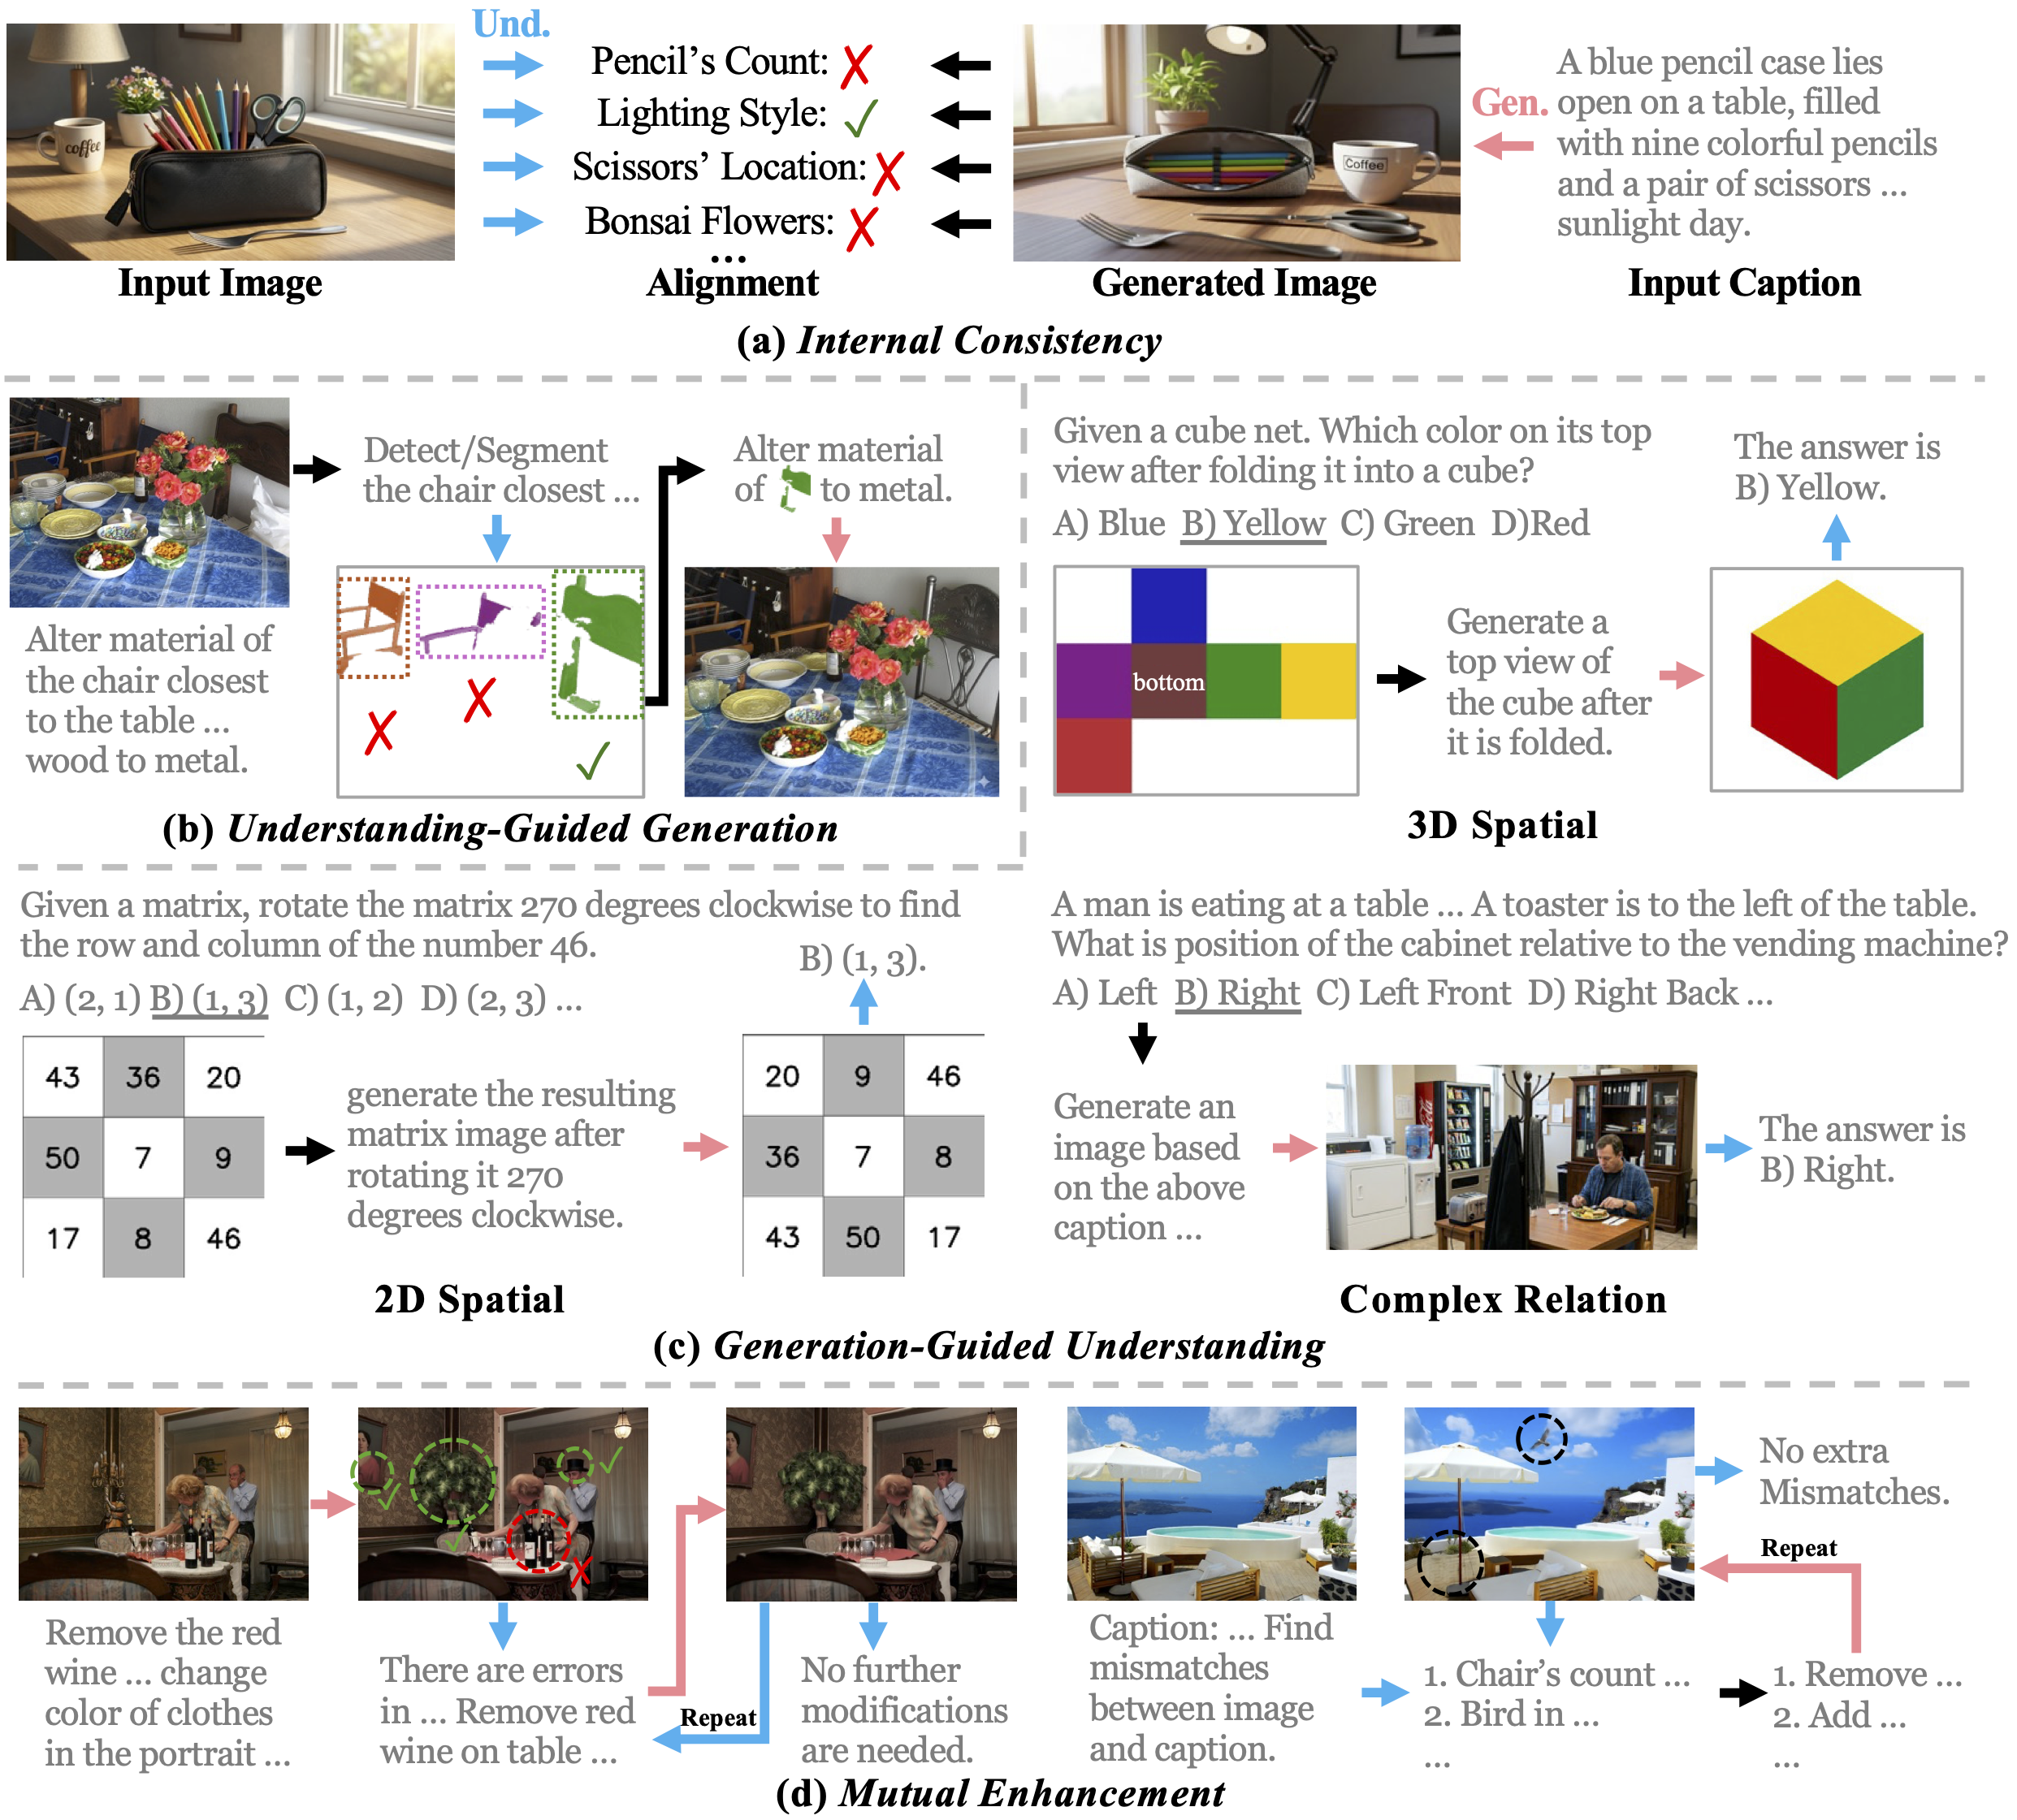
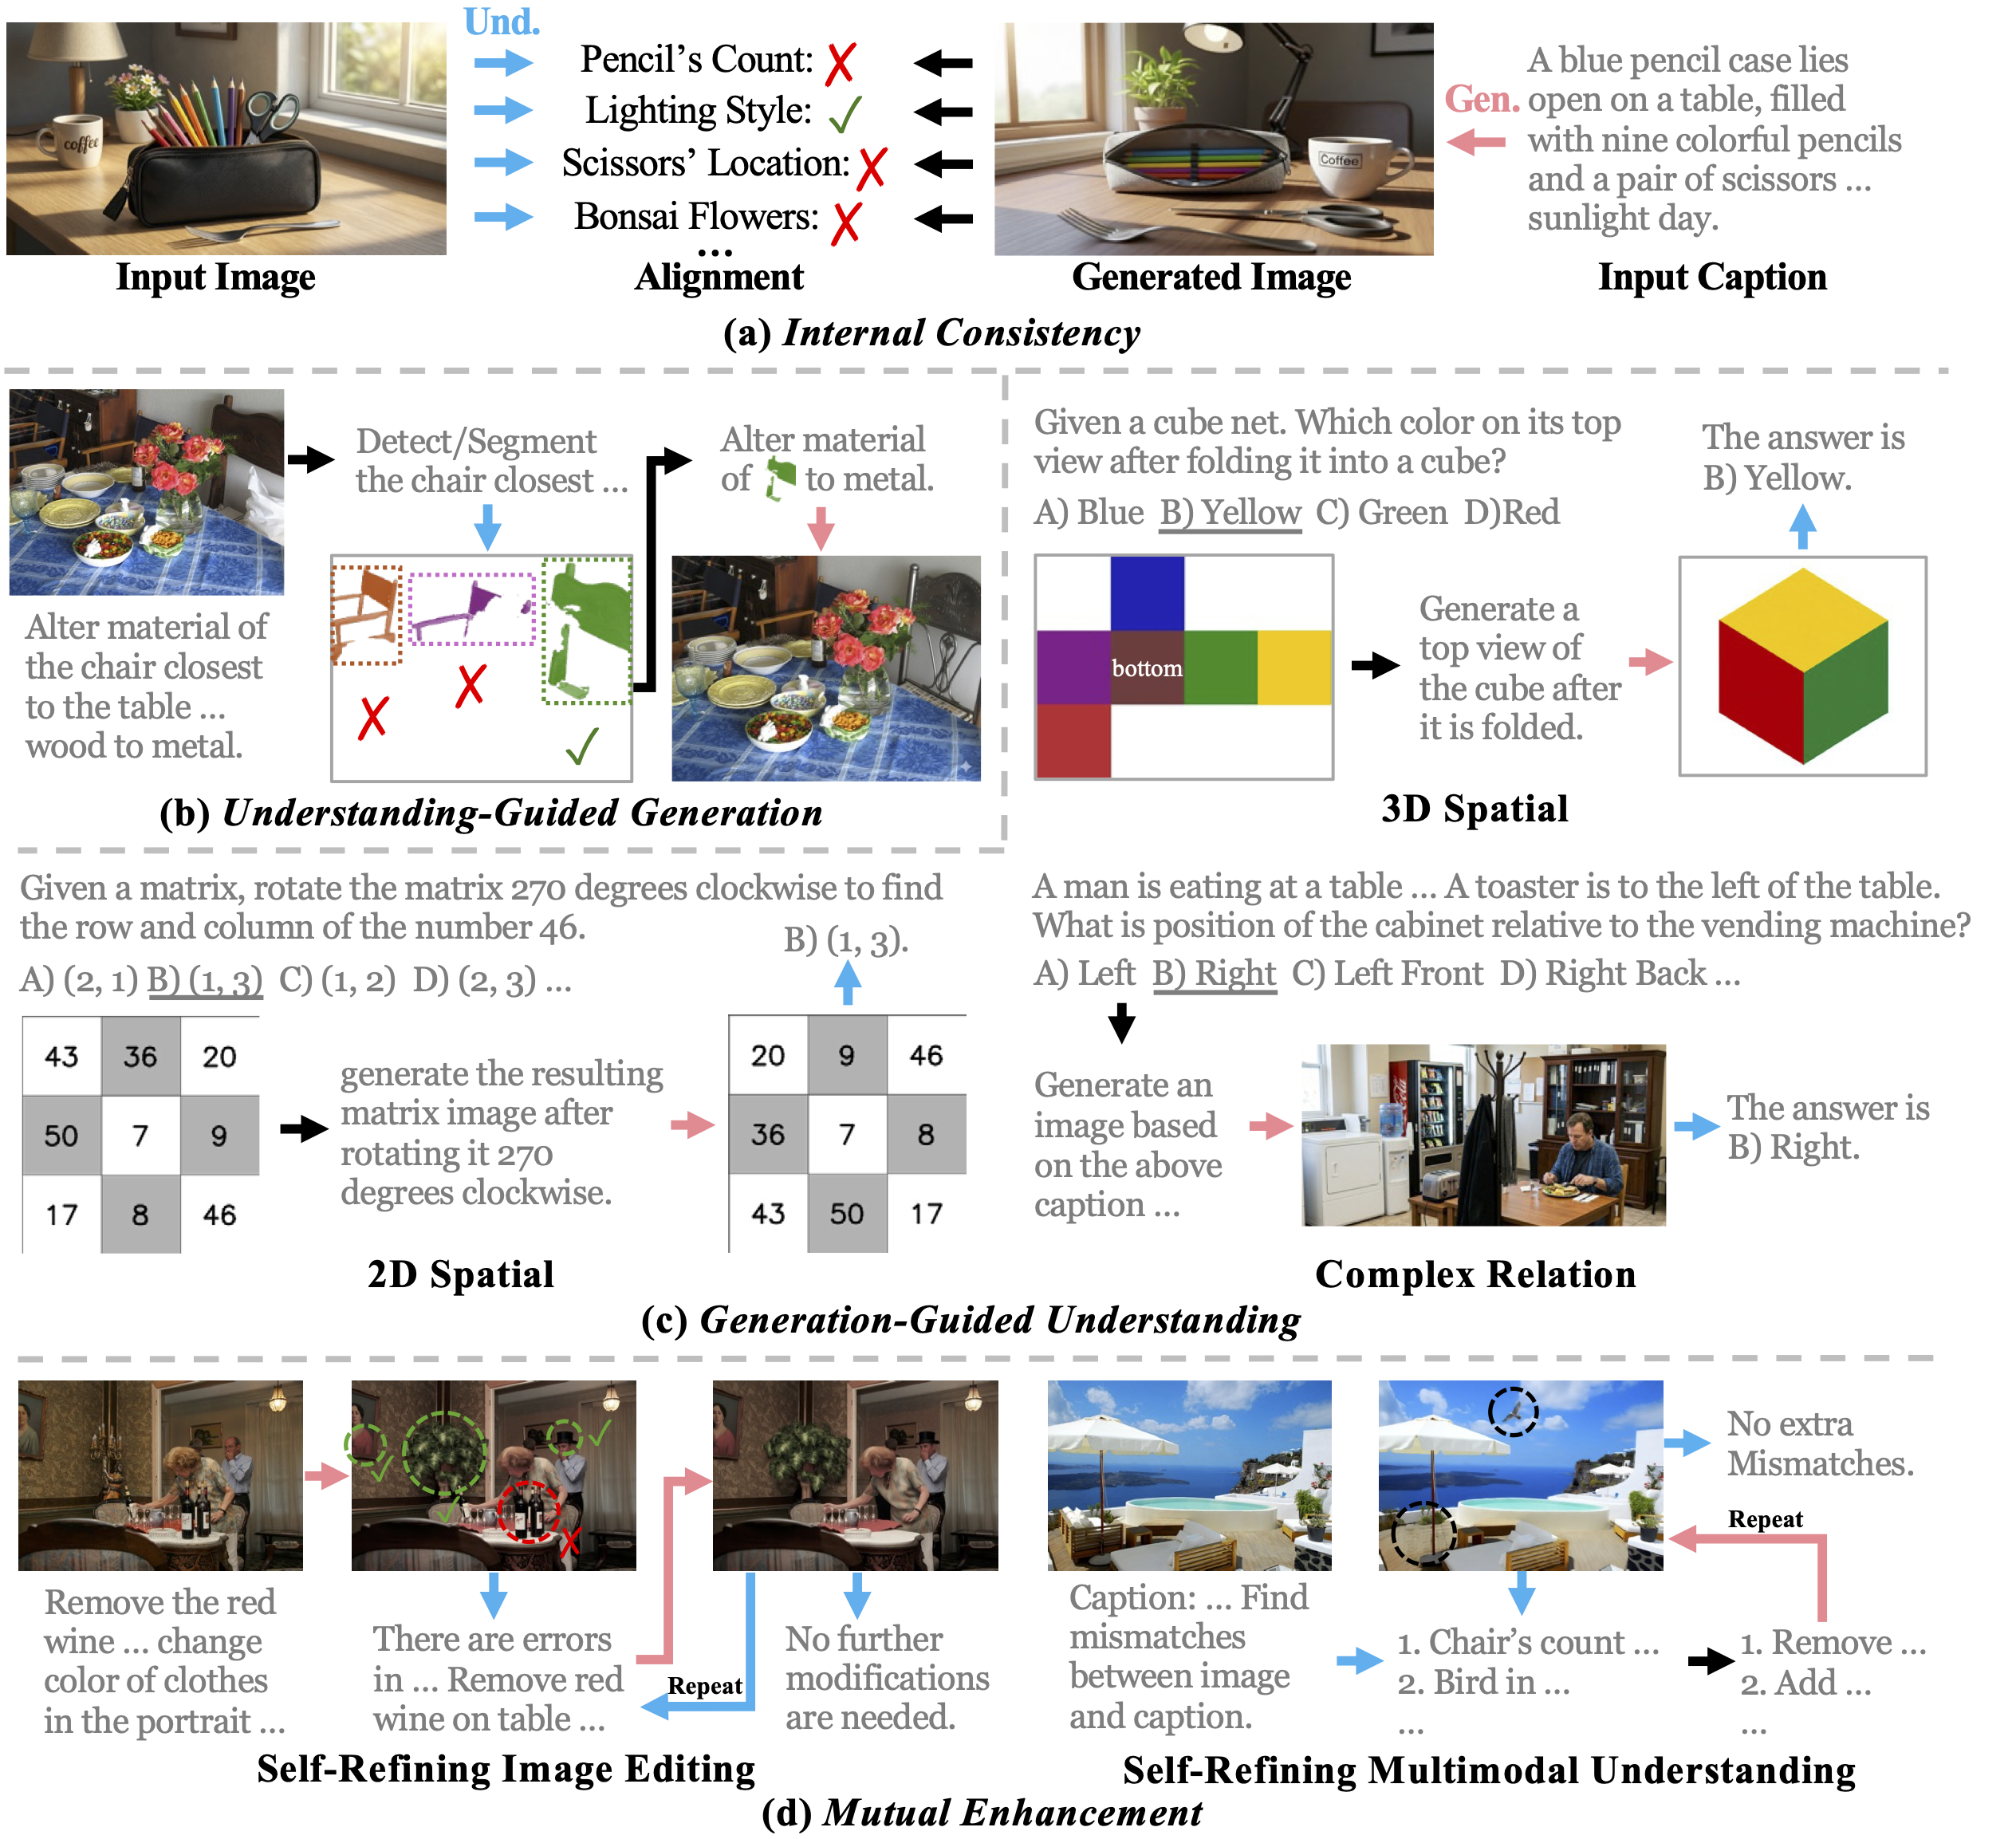
update

diff --git a/README.md b/README.md
@@ -29,28 +29,66 @@ We introduce **Unison**, a comprehensive benchmark comprising 2,169 high-quality
 
 ### Open-Source Unified Multimodal Models
 
-| Model | Params | IC Uni. | UGG Uni. | GGU Uni. | ME Uni. | Overall |
-|---|---:|---:|---:|---:|---:|---:|
-| [Show-o](https://github.com/showlab/Show-o) | 1.3B | 58.5 | - | - | - | - |
-| [Janus-Pro](https://github.com/deepseek-ai/Janus) | 1.5B | 45.0 | - | - | - | - |
-| [Show-o2](https://github.com/showlab/Show-o/tree/main/show-o2) | 1.5B | 65.8 | - | - | - | - |
-| [D-DiT](https://github.com/zijieli-Jlee/Dual-Diffusion) | 2B | 58.1 | - | - | - | - |
-| [ILLUME+](https://github.com/illume-unified-mllm/ILLUME_plus) | 3B | 10.5 | 9.0 | 15.1 | 3.2 | 9.4 |
-| [Janus-Pro](https://github.com/deepseek-ai/Janus) | 7B | 69.8 | - | - | - | - |
-| [Show-o2](https://github.com/showlab/Show-o/tree/main/show-o2) | 7B | 72.5 | - | - | - | - |
-| [ILLUME+](https://github.com/illume-unified-mllm/ILLUME_plus) | 7B | 16.7 | 11.4 | 13.9 | 4.8 | 11.7 |
-| [OmniGen2](https://github.com/VectorSpaceLab/OmniGen2) | 7B | <u>74.5</u> | <u>52.0</u> | <u>30.9</u> | **47.7** | <u>51.3</u> |
-| [TokenFlow](https://github.com/ByteVisionLab/TokenFlow) | 14B | 44.5 | - | - | - | - |
-| [BAGEL](https://github.com/ByteDance-Seed/Bagel) | 14B | **80.3** | **67.9** | **32.0** | <u>32.5</u> | **53.2** |
-| [SEED-X](https://github.com/AILab-CVC/SEED-X) | 17B | 34.2 | 16.1 | 20.8 | 8.5 | 19.9 |
-| [UniWorld](https://github.com/PKU-YuanGroup/UniWorld) | 19B | 65.1 | 44.9 | 26.9 | 31.3 | 42.1 |
+<table>
+  <thead>
+    <tr>
+      <th rowspan="2">Model</th>
+      <th rowspan="2">Params</th>
+      <th colspan="3">Internal Consistency</th>
+      <th colspan="3">Und.-Guided Gen.</th>
+      <th colspan="3">Gen-Guided Und.</th>
+      <th colspan="3">Mutual Enhancement</th>
+      <th rowspan="2">Overall</th>
+    </tr>
+    <tr>
+      <th>Und.</th><th>Gen.</th><th>Uni.</th>
+      <th>Und.</th><th>Gen.</th><th>Uni.</th>
+      <th>Und.</th><th>Gen.</th><th>Uni.</th>
+      <th>Und.</th><th>Gen.</th><th>Uni.</th>
+    </tr>
+  </thead>
+  <tbody>
+    <tr><td><a href="https://github.com/showlab/Show-o">Show-o</a></td><td align="right">1.3B</td><td align="right">88.3</td><td align="right">64.7</td><td align="right">58.5</td><td align="right">8.90</td><td align="right">-</td><td align="right">-</td><td align="right">12.0</td><td align="right">-</td><td align="right">-</td><td align="right">-</td><td align="right">-</td><td align="right">-</td><td align="right">-</td></tr>
+    <tr><td><a href="https://github.com/deepseek-ai/Janus">Janus-Pro</a></td><td align="right">1.5B</td><td align="right">94.4</td><td align="right">47.1</td><td align="right">45.0</td><td align="right">0.3</td><td align="right">-</td><td align="right">-</td><td align="right">19.2</td><td align="right">-</td><td align="right">-</td><td align="right">-</td><td align="right">-</td><td align="right">-</td><td align="right">-</td></tr>
+    <tr><td><a href="https://github.com/showlab/Show-o/tree/main/show-o2">Show-o2</a></td><td align="right">1.5B</td><td align="right"><u>96.0</u></td><td align="right">67.9</td><td align="right">65.8</td><td align="right">26.7</td><td align="right">-</td><td align="right">-</td><td align="right">9.4</td><td align="right">-</td><td align="right">-</td><td align="right">-</td><td align="right">-</td><td align="right">-</td><td align="right">-</td></tr>
+    <tr><td><a href="https://github.com/zijieli-Jlee/Dual-Diffusion">D-DiT</a></td><td align="right">2B</td><td align="right">86.5</td><td align="right">65.0</td><td align="right">58.1</td><td align="right">0.2</td><td align="right">-</td><td align="right">-</td><td align="right">6.8</td><td align="right">-</td><td align="right">-</td><td align="right">-</td><td align="right">-</td><td align="right">-</td><td align="right">-</td></tr>
+    <tr><td><a href="https://github.com/illume-unified-mllm/ILLUME_plus">ILLUME+</a></td><td align="right">3B</td><td align="right">43.4</td><td align="right">19.9</td><td align="right">10.5</td><td align="right">10.3</td><td align="right">7.7</td><td align="right">9.0</td><td align="right">11.3</td><td align="right">30.1</td><td align="right">15.1</td><td align="right">1.0</td><td align="right">5.5</td><td align="right">3.2</td><td align="right">9.4</td></tr>
+    <tr><td><a href="https://github.com/deepseek-ai/Janus">Janus-Pro</a></td><td align="right">7B</td><td align="right">95.7</td><td align="right">71.7</td><td align="right">69.8</td><td align="right">3.2</td><td align="right">-</td><td align="right">-</td><td align="right">15.1</td><td align="right">-</td><td align="right">-</td><td align="right">-</td><td align="right">-</td><td align="right">-</td><td align="right">-</td></tr>
+    <tr><td><a href="https://github.com/showlab/Show-o/tree/main/show-o2">Show-o2</a></td><td align="right">7B</td><td align="right"><strong>97.2</strong></td><td align="right">73.8</td><td align="right">72.5</td><td align="right">9.9</td><td align="right">-</td><td align="right">-</td><td align="right">9.2</td><td align="right">-</td><td align="right">-</td><td align="right">-</td><td align="right">-</td><td align="right">-</td><td align="right">-</td></tr>
+    <tr><td><a href="https://github.com/illume-unified-mllm/ILLUME_plus">ILLUME+</a></td><td align="right">7B</td><td align="right">80.2</td><td align="right">20.4</td><td align="right">16.7</td><td align="right">12.4</td><td align="right">10.4</td><td align="right">11.4</td><td align="right">11.3</td><td align="right">27.7</td><td align="right">13.9</td><td align="right">2.7</td><td align="right">6.8</td><td align="right">4.8</td><td align="right">11.7</td></tr>
+    <tr><td><a href="https://github.com/VectorSpaceLab/OmniGen2">OmniGen2</a></td><td align="right">7B</td><td align="right">92.3</td><td align="right"><u>79.0</u></td><td align="right"><u>74.5</u></td><td align="right"><u>61.3</u></td><td align="right"><u>42.6</u></td><td align="right"><u>52.0</u></td><td align="right">19.7</td><td align="right"><strong>41.9</strong></td><td align="right"><u>30.9</u></td><td align="right"><u>45.0</u></td><td align="right"><u>50.3</u></td><td align="right"><strong>47.7</strong></td><td align="right"><u>51.3</u></td></tr>
+    <tr><td><a href="https://github.com/ByteVisionLab/TokenFlow">TokenFlow</a></td><td align="right">14B</td><td align="right">93.0</td><td align="right">47.1</td><td align="right">44.5</td><td align="right">20.1</td><td align="right">-</td><td align="right">-</td><td align="right">17.0</td><td align="right">-</td><td align="right">-</td><td align="right">-</td><td align="right">-</td><td align="right">-</td><td align="right">-</td></tr>
+    <tr><td><a href="https://github.com/ByteDance-Seed/Bagel">BAGEL</a></td><td align="right">14B</td><td align="right"><u>96.0</u></td><td align="right"><strong>82.5</strong></td><td align="right"><strong>80.3</strong></td><td align="right">57.6</td><td align="right"><strong>78.1</strong></td><td align="right"><strong>67.9</strong></td><td align="right"><strong>28.2</strong></td><td align="right"><u>41.6</u></td><td align="right"><strong>32.0</strong></td><td align="right">7.2</td><td align="right"><strong>57.7</strong></td><td align="right"><u>32.5</u></td><td align="right"><strong>53.2</strong></td></tr>
+    <tr><td><a href="https://github.com/AILab-CVC/SEED-X">SEED-X</a></td><td align="right">17B</td><td align="right">82.8</td><td align="right">38.9</td><td align="right">34.2</td><td align="right">18.6</td><td align="right">13.7</td><td align="right">16.1</td><td align="right">13.5</td><td align="right">27.4</td><td align="right">20.8</td><td align="right">0.2</td><td align="right">16.8</td><td align="right">8.5</td><td align="right">19.9</td></tr>
+    <tr><td><a href="https://github.com/PKU-YuanGroup/UniWorld">UniWorld</a></td><td align="right">19B</td><td align="right">92.6</td><td align="right">68.5</td><td align="right">65.1</td><td align="right"><strong>63.4</strong></td><td align="right">26.4</td><td align="right">44.9</td><td align="right"><u>22.8</u></td><td align="right">32.0</td><td align="right">26.9</td><td align="right"><strong>46.4</strong></td><td align="right">16.2</td><td align="right">31.3</td><td align="right">42.1</td></tr>
+  </tbody>
+</table>
 
 ### Closed-Source Models
 
-| Model | IC Uni. | UGG Uni. | GGU Uni. | ME Uni. | Overall |
-|---|---:|---:|---:|---:|---:|
-| Gemini 3 Pro | 86.9 | 76.9 | 43.9 | 71.4 | 69.8 |
-| GPT-5.2 | 84.7 | 77.7 | 52.7 | 70.2 | 71.3 |
+<table>
+  <thead>
+    <tr>
+      <th rowspan="2">Model</th>
+      <th rowspan="2">Params</th>
+      <th colspan="3">Internal Consistency</th>
+      <th colspan="3">Und.-Guided Gen.</th>
+      <th colspan="3">Gen-Guided Und.</th>
+      <th colspan="3">Mutual Enhancement</th>
+      <th rowspan="2">Overall</th>
+    </tr>
+    <tr>
+      <th>Und.</th><th>Gen.</th><th>Uni.</th>
+      <th>Und.</th><th>Gen.</th><th>Uni.</th>
+      <th>Und.</th><th>Gen.</th><th>Uni.</th>
+      <th>Und.</th><th>Gen.</th><th>Uni.</th>
+    </tr>
+  </thead>
+  <tbody>
+    <tr><td>Gemini 3 Pro</td><td align="right">-</td><td align="right">98.3</td><td align="right">88.1</td><td align="right">86.9</td><td align="right">71.0</td><td align="right">82.8</td><td align="right">76.9</td><td align="right">42.2</td><td align="right">46.5</td><td align="right">43.9</td><td align="right">65.3</td><td align="right">77.4</td><td align="right">71.4</td><td align="right">69.8</td></tr>
+    <tr><td>GPT-5.2</td><td align="right">-</td><td align="right">98.6</td><td align="right">86.3</td><td align="right">84.7</td><td align="right">69.7</td><td align="right">85.7</td><td align="right">77.7</td><td align="right">44.8</td><td align="right">58.2</td><td align="right">52.7</td><td align="right">69.1</td><td align="right">71.2</td><td align="right">70.2</td><td align="right">71.3</td></tr>
+  </tbody>
+</table>
 
 ### Inference and Evaluation Pipelines
 